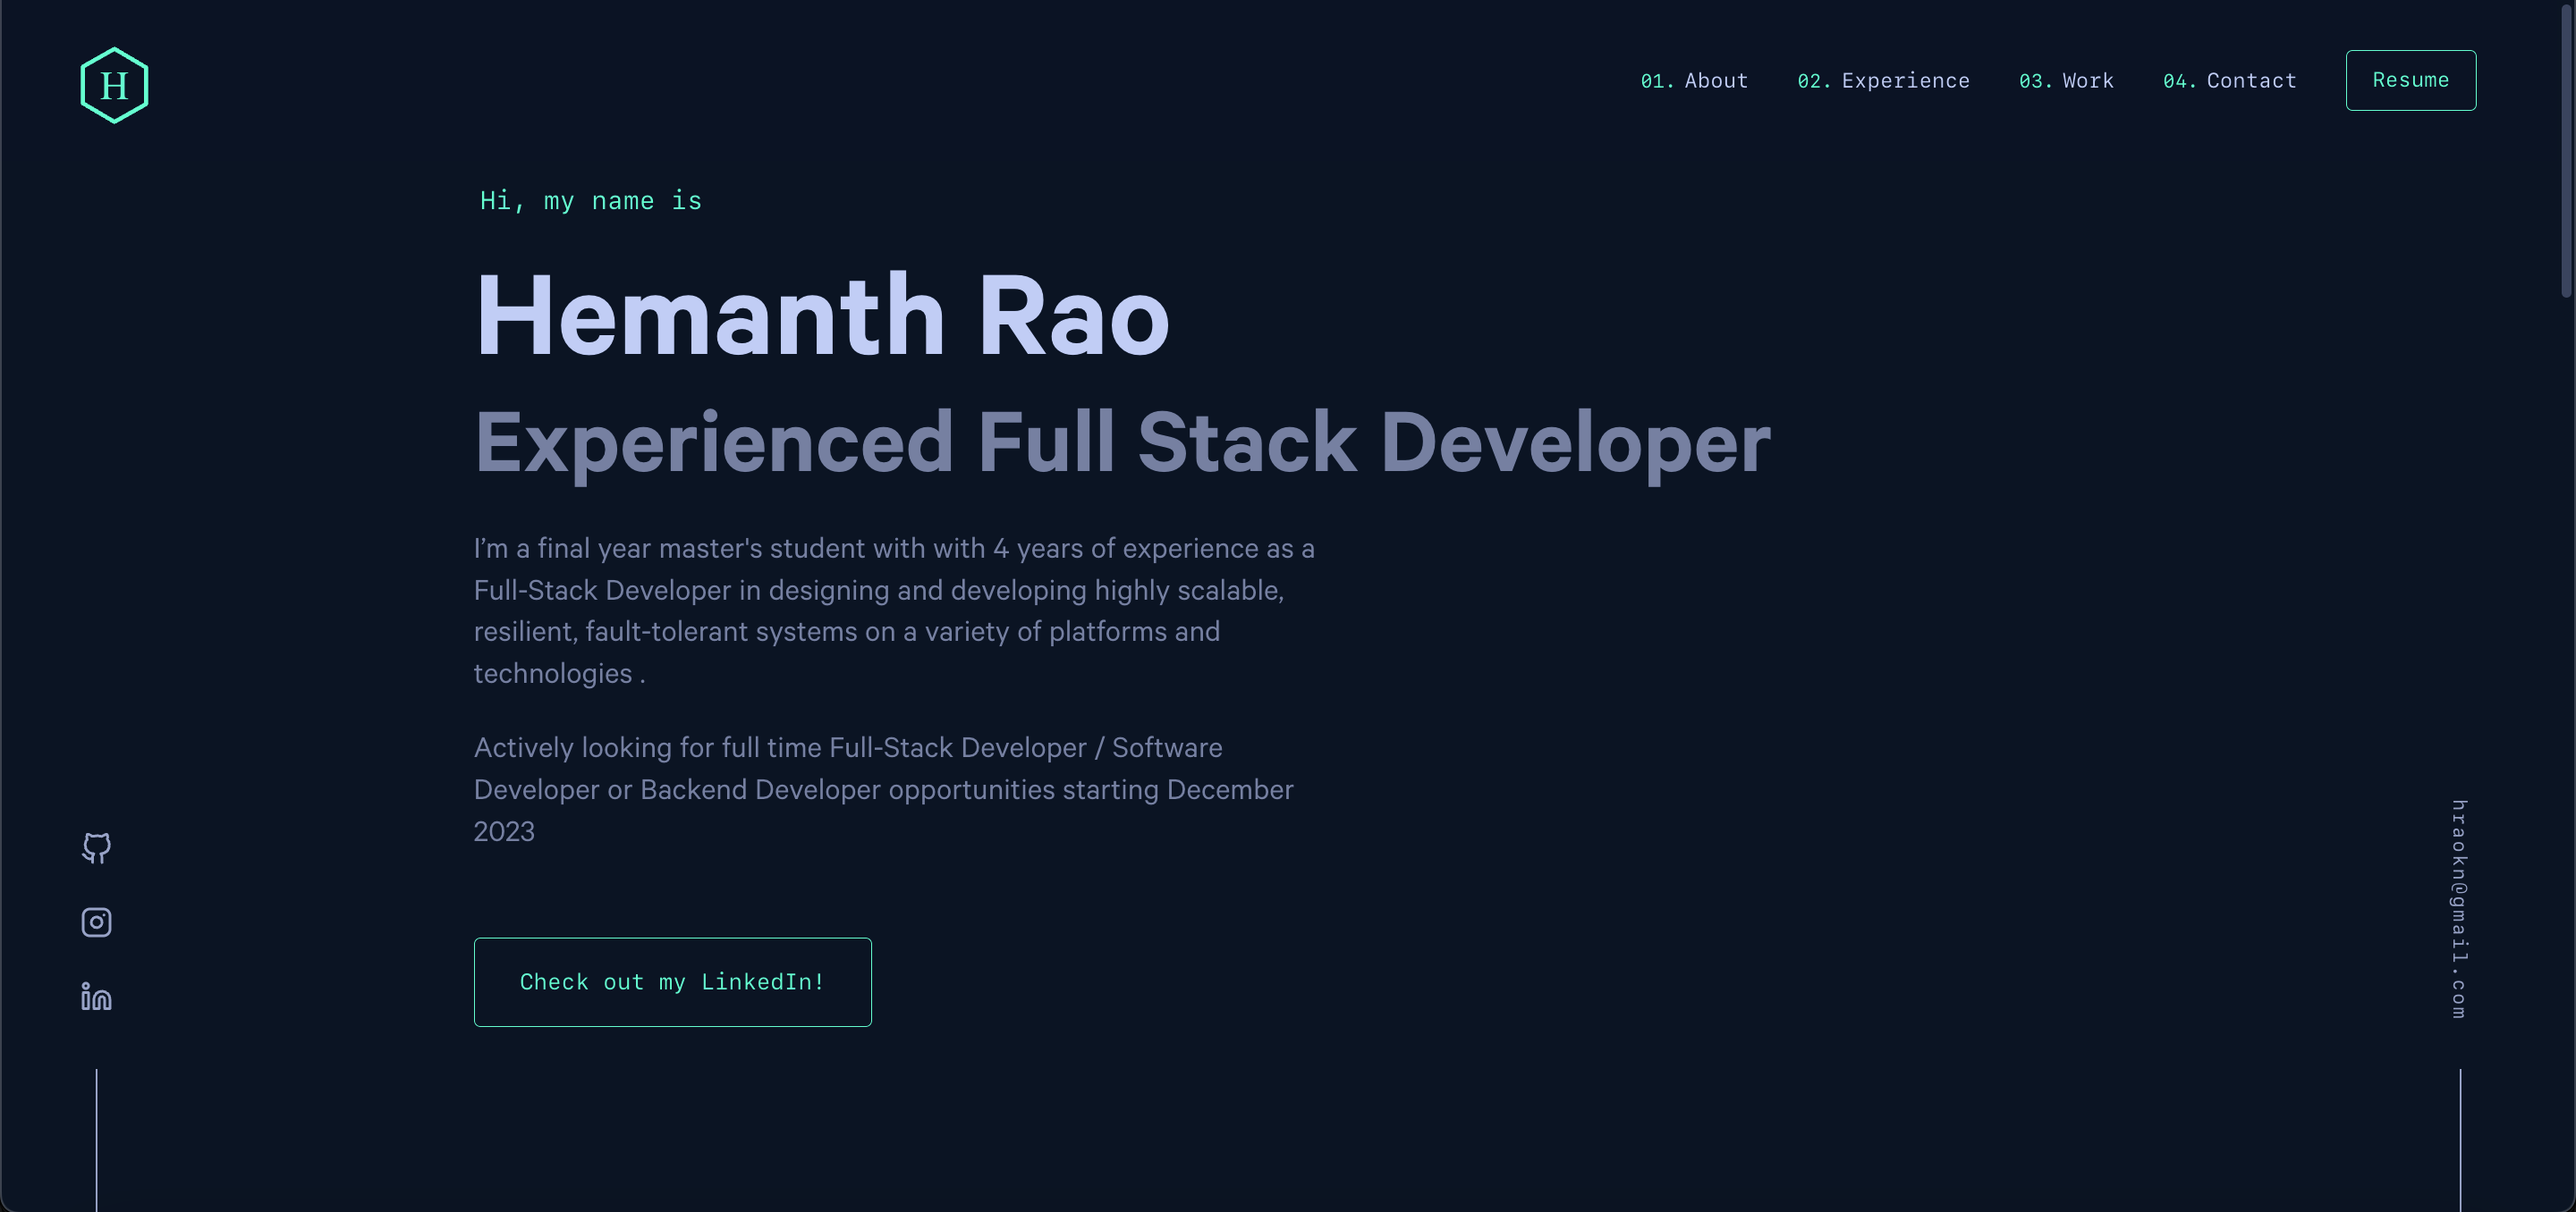
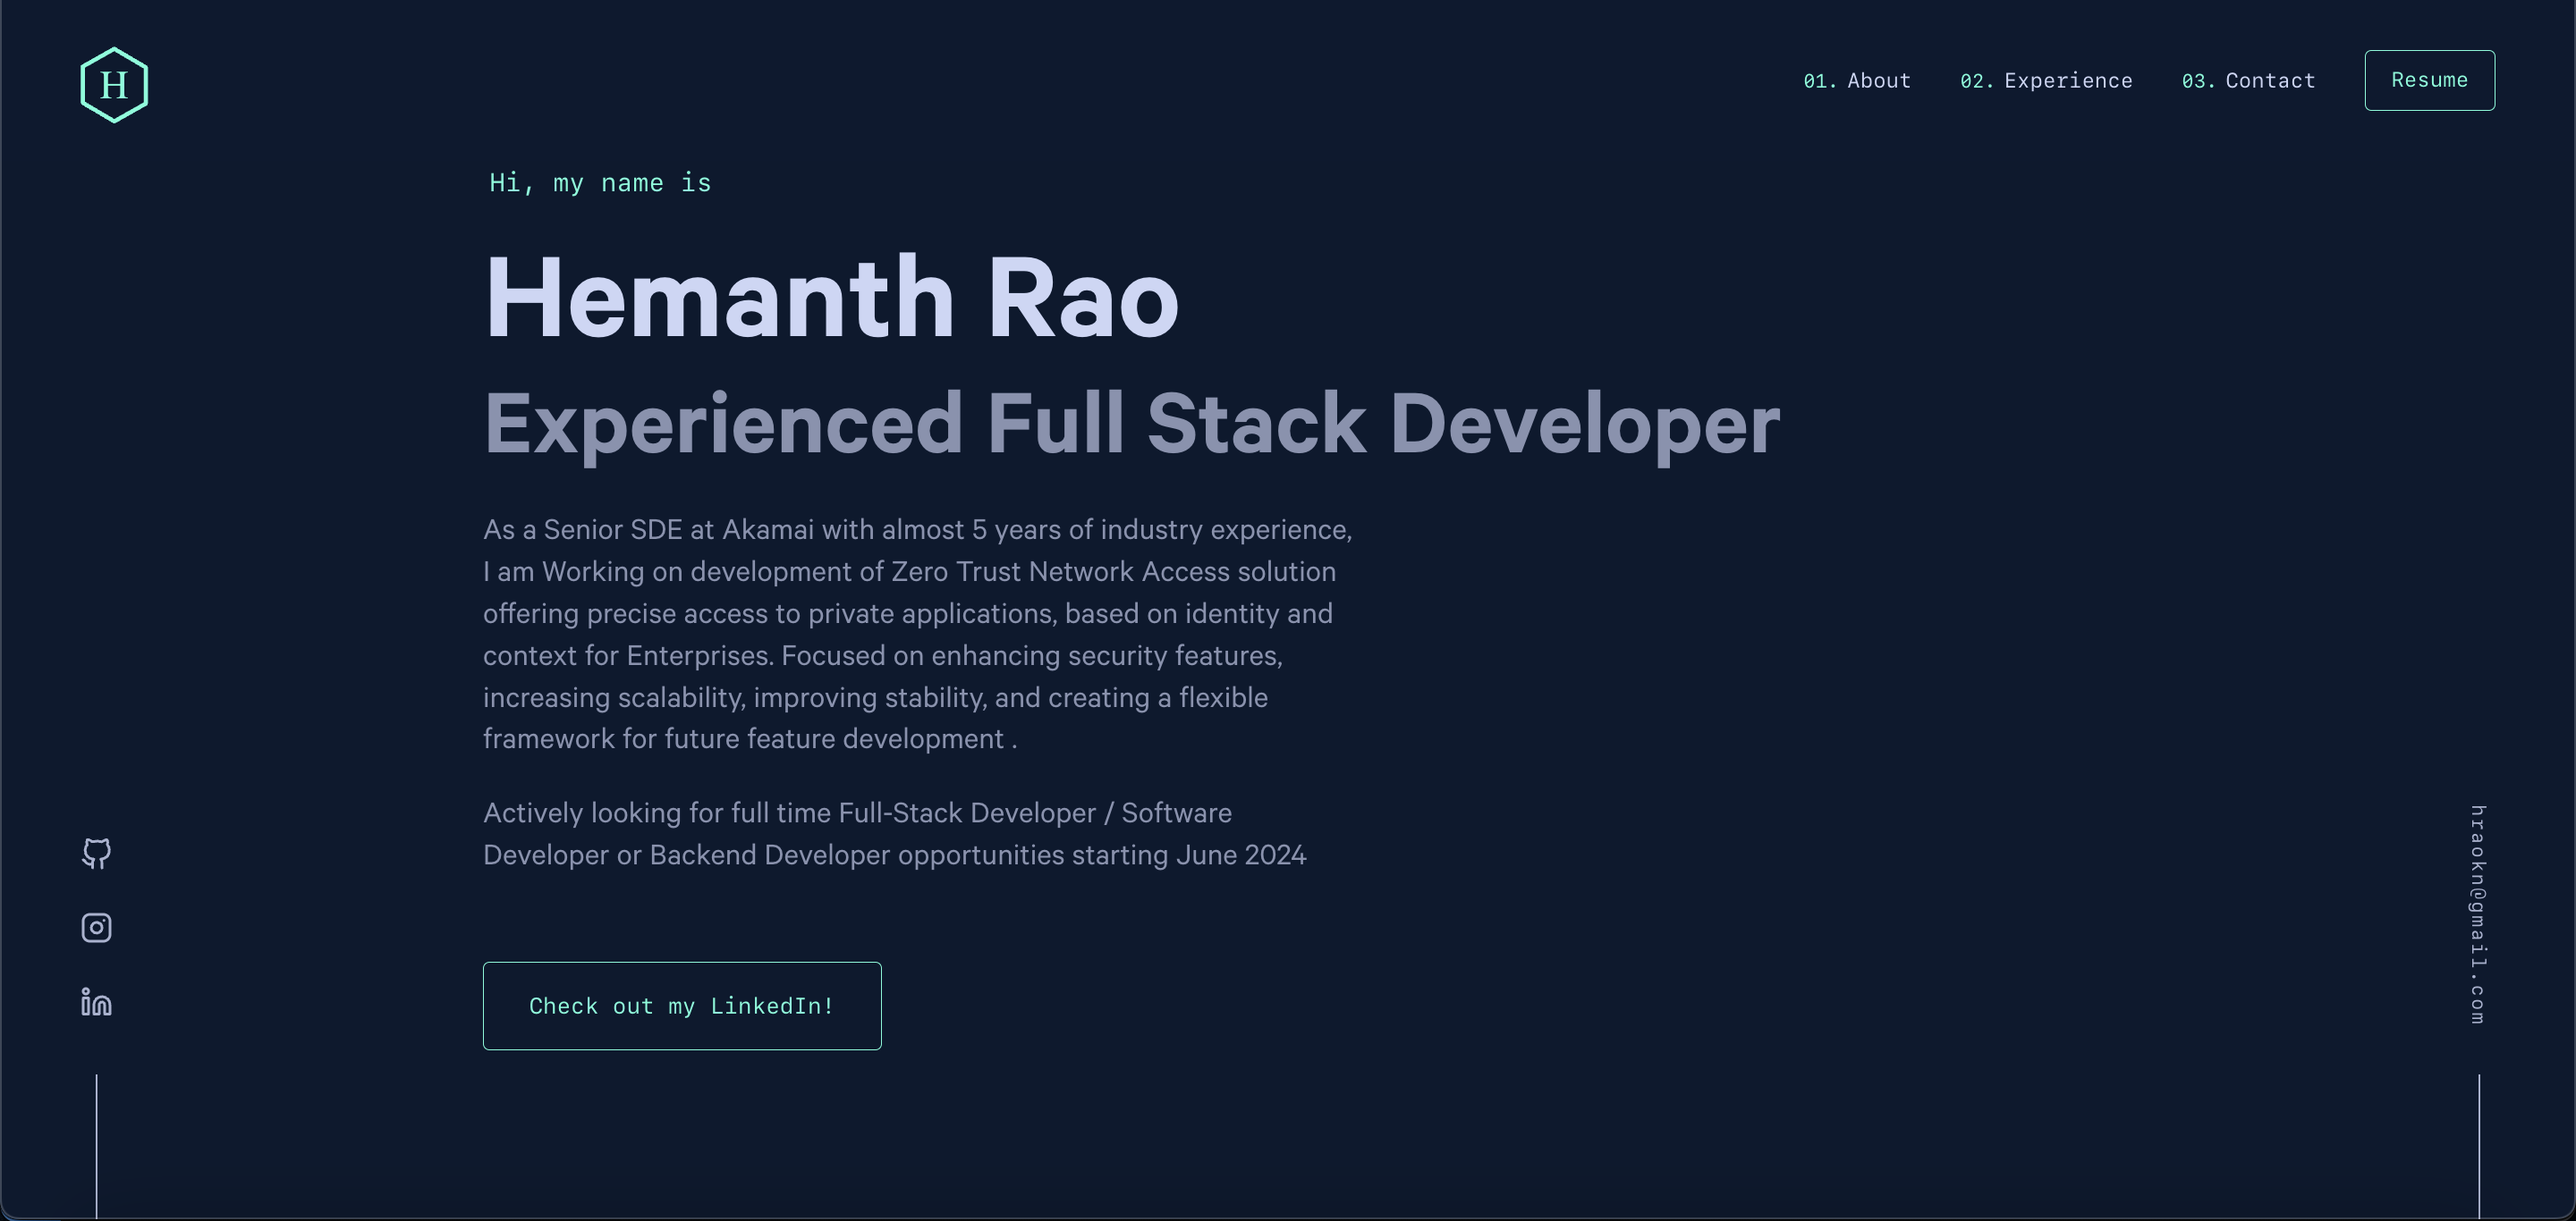
Update

diff --git a/src/components/sections/hero.js b/src/components/sections/hero.js
@@ -66,11 +66,11 @@ const Hero = () => {
   const four = (
     <>
       <p>
-        As a Senior SDE at Akamai with 4+ years of industry experience, I am Working on development
-        of Zero Trust Network Access solution offering precise access to private applications, based
-        on identity and context for Enterprises. Focused on enhancing security features, increasing
-        scalability, improving stability, and creating a flexible framework for future feature
-        development .
+        As a Senior SDE at Akamai with almost 5 years of industry experience, I am Working on
+        development of Zero Trust Network Access solution offering precise access to private
+        applications, based on identity and context for Enterprises. Focused on enhancing security
+        features, increasing scalability, improving stability, and creating a flexible framework for
+        future feature development .
       </p>
       {/* <br/> */}
       <p>

diff --git a/content/jobs/Senior SDE - Akamai/index.md b/content/jobs/Senior SDE - Akamai/index.md
@@ -8,6 +8,6 @@ range: 'May 2024 - Present'
 url: 'https://www.akamai.com/'
 ---
 
-- <a class ="inline-link">Enterprise Application Access:</a>Leading design and development of a key component of Zero Trust Network Access (ZTNA) solution. Architecting scalable systems, implementing advanced security features, enhancing stability, and creating a flexible framework for enterprise private application access control based on identity and context
+- <a class ="inline-link">Enterprise Application Access:</a> Leading design and development of a key component of Zero Trust Network Access (ZTNA) solution. Architecting scalable systems, implementing advanced security features, enhancing stability, and creating a flexible framework for enterprise private application access control based on identity and context
 - Spearheading the development of firewall controller designed to regulate inbound and outbound traffic through the Linode - Akamai cloud platform
 - Designing and developing policy engine as an authorization service to Akamai cloud and other security products
